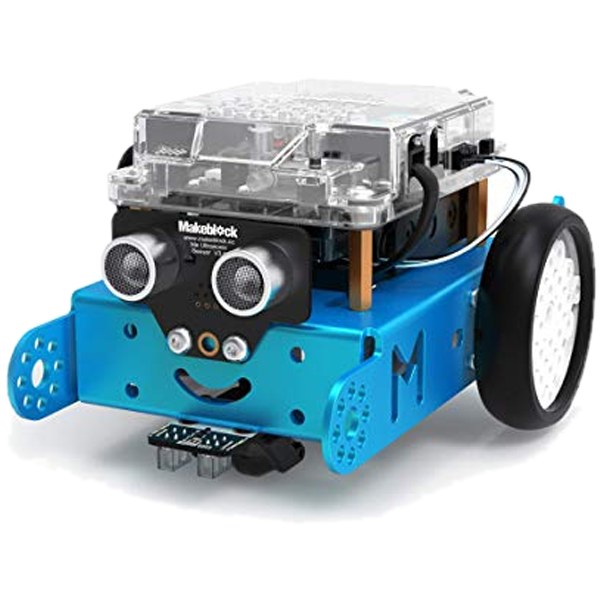
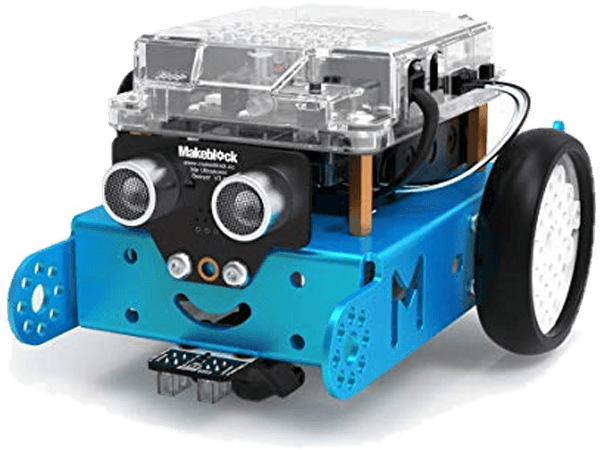
try some more to fix images

diff --git a/page3.html b/page3.html
@@ -31,7 +31,7 @@
 			<h2>School teams build a vehicle (either a bike or with 3+ wheels) powered by a standard 350W electric motor, controller and two 12V gel cells. Innovation is encouraged as students strive to make their vehicle the fastest with the least drag, and able to cope with the demands of a tight street circuit. The Innovation categories encourage teams to build in object detection and mitigation features along with the measurement and display of key performance metrics.</h2>
 		</div>
 		<div class="bodyText"> <!--body text 2-->
-			<h2><img src="img/evelocity.png" alt="evelocity logo" class="bodyImg" style="width: 30vh">"Challange your inner engineer and design efficent fast electric vehicles that do something" - Zane</h2>
+			<h2><img src="img/evelocity.png" alt="evelocity logo" class="bodyImg">"Challange your inner engineer and design efficent fast electric vehicles that do something" - Zane</h2>
 			<h2>"You make a cart and you do some competitions with it" - Caelan</h2>
 			<h2>Our regional finals are a fun day of competition where teams parade their designs and then test them in competition against their peers from other schools.</h2>
 			<h2>Good performances are rewarded with an excellent array of prizes from our generous sponsors.</h2>

diff --git a/page2.html b/page2.html
@@ -31,7 +31,7 @@
 			<h2>Robotics is a competitive robotics programme where students are challenged to design and build robots to achieve specific tasks. It is all about involvement, learning, teamwork and problem solving.</h2>
     </div>
 		<div class="bodyText"> <!--body text 2-->
-			<h2><img src="img/robot.png" alt="robot kit" class="bodyImg" style="width: 40vh">What does the robot have to do?</h2>
+			<h2><img src="img/robot.png" alt="robot kit" class="bodyImg">What does the robot have to do?</h2>
 			<h2>Each year there is a different challenge. This year’s challenge is called Roundup and requires your robot to pick up plastic rings and deposit them on goalposts. The idea is to “own” goalposts by having more of your rings on them than the opposition, to own as many goalposts as possible, and score as many rings in total as possible. Part of the strategy is descoring the opposition’s rings, and if possible placing them out of reach. All of this happens in a series of fast paced matches lasting only two minutes.</h2>
 			<h2>All of this involves not only building a robot from metal, gears and motors, but also programming it with control instructions and learning to drive it accurately by remote control.</h2>
 		</div>

diff --git a/css.css b/css.css
@@ -75,7 +75,8 @@ h2{ /*body text*/
 
 .bodyImg{ /*body images*/
   float: left; /*image will be next to text*/
-  margin: 0% 5% 5% 0%;
+  margin: -2% 2% 2% -5%;
+  width: 30vh;
 }
 /*top right bottom left*/
 
